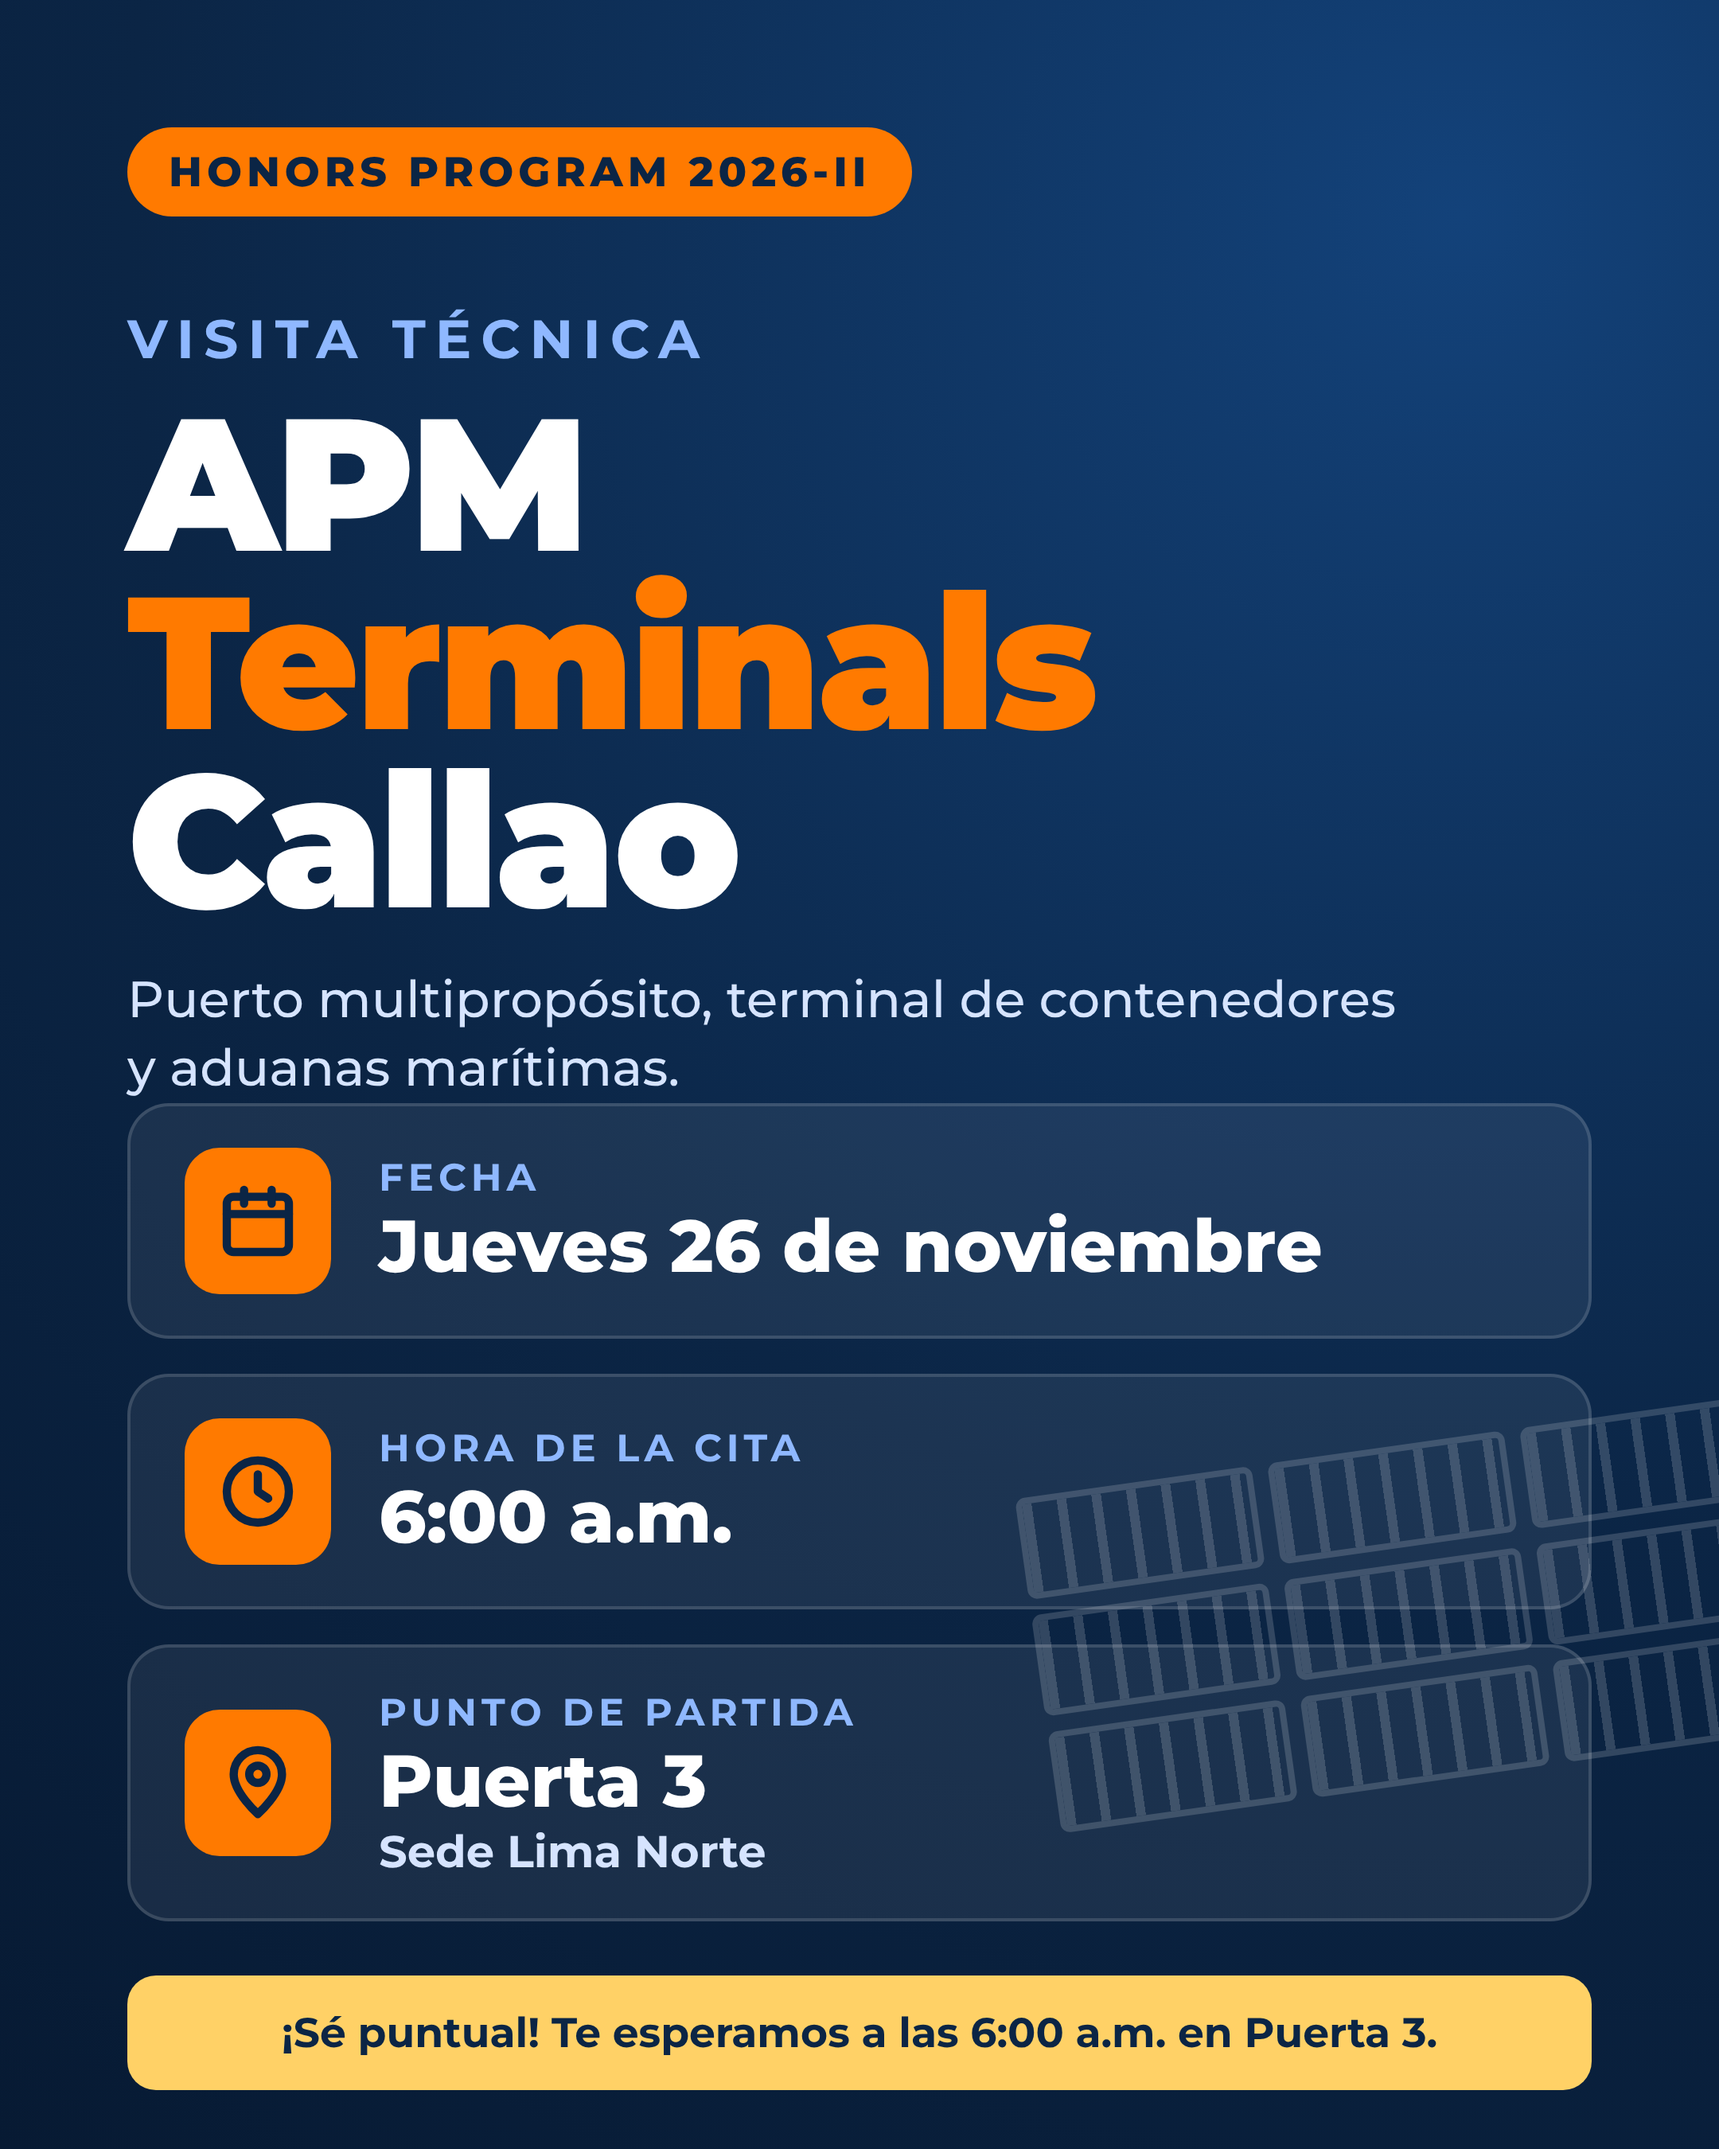
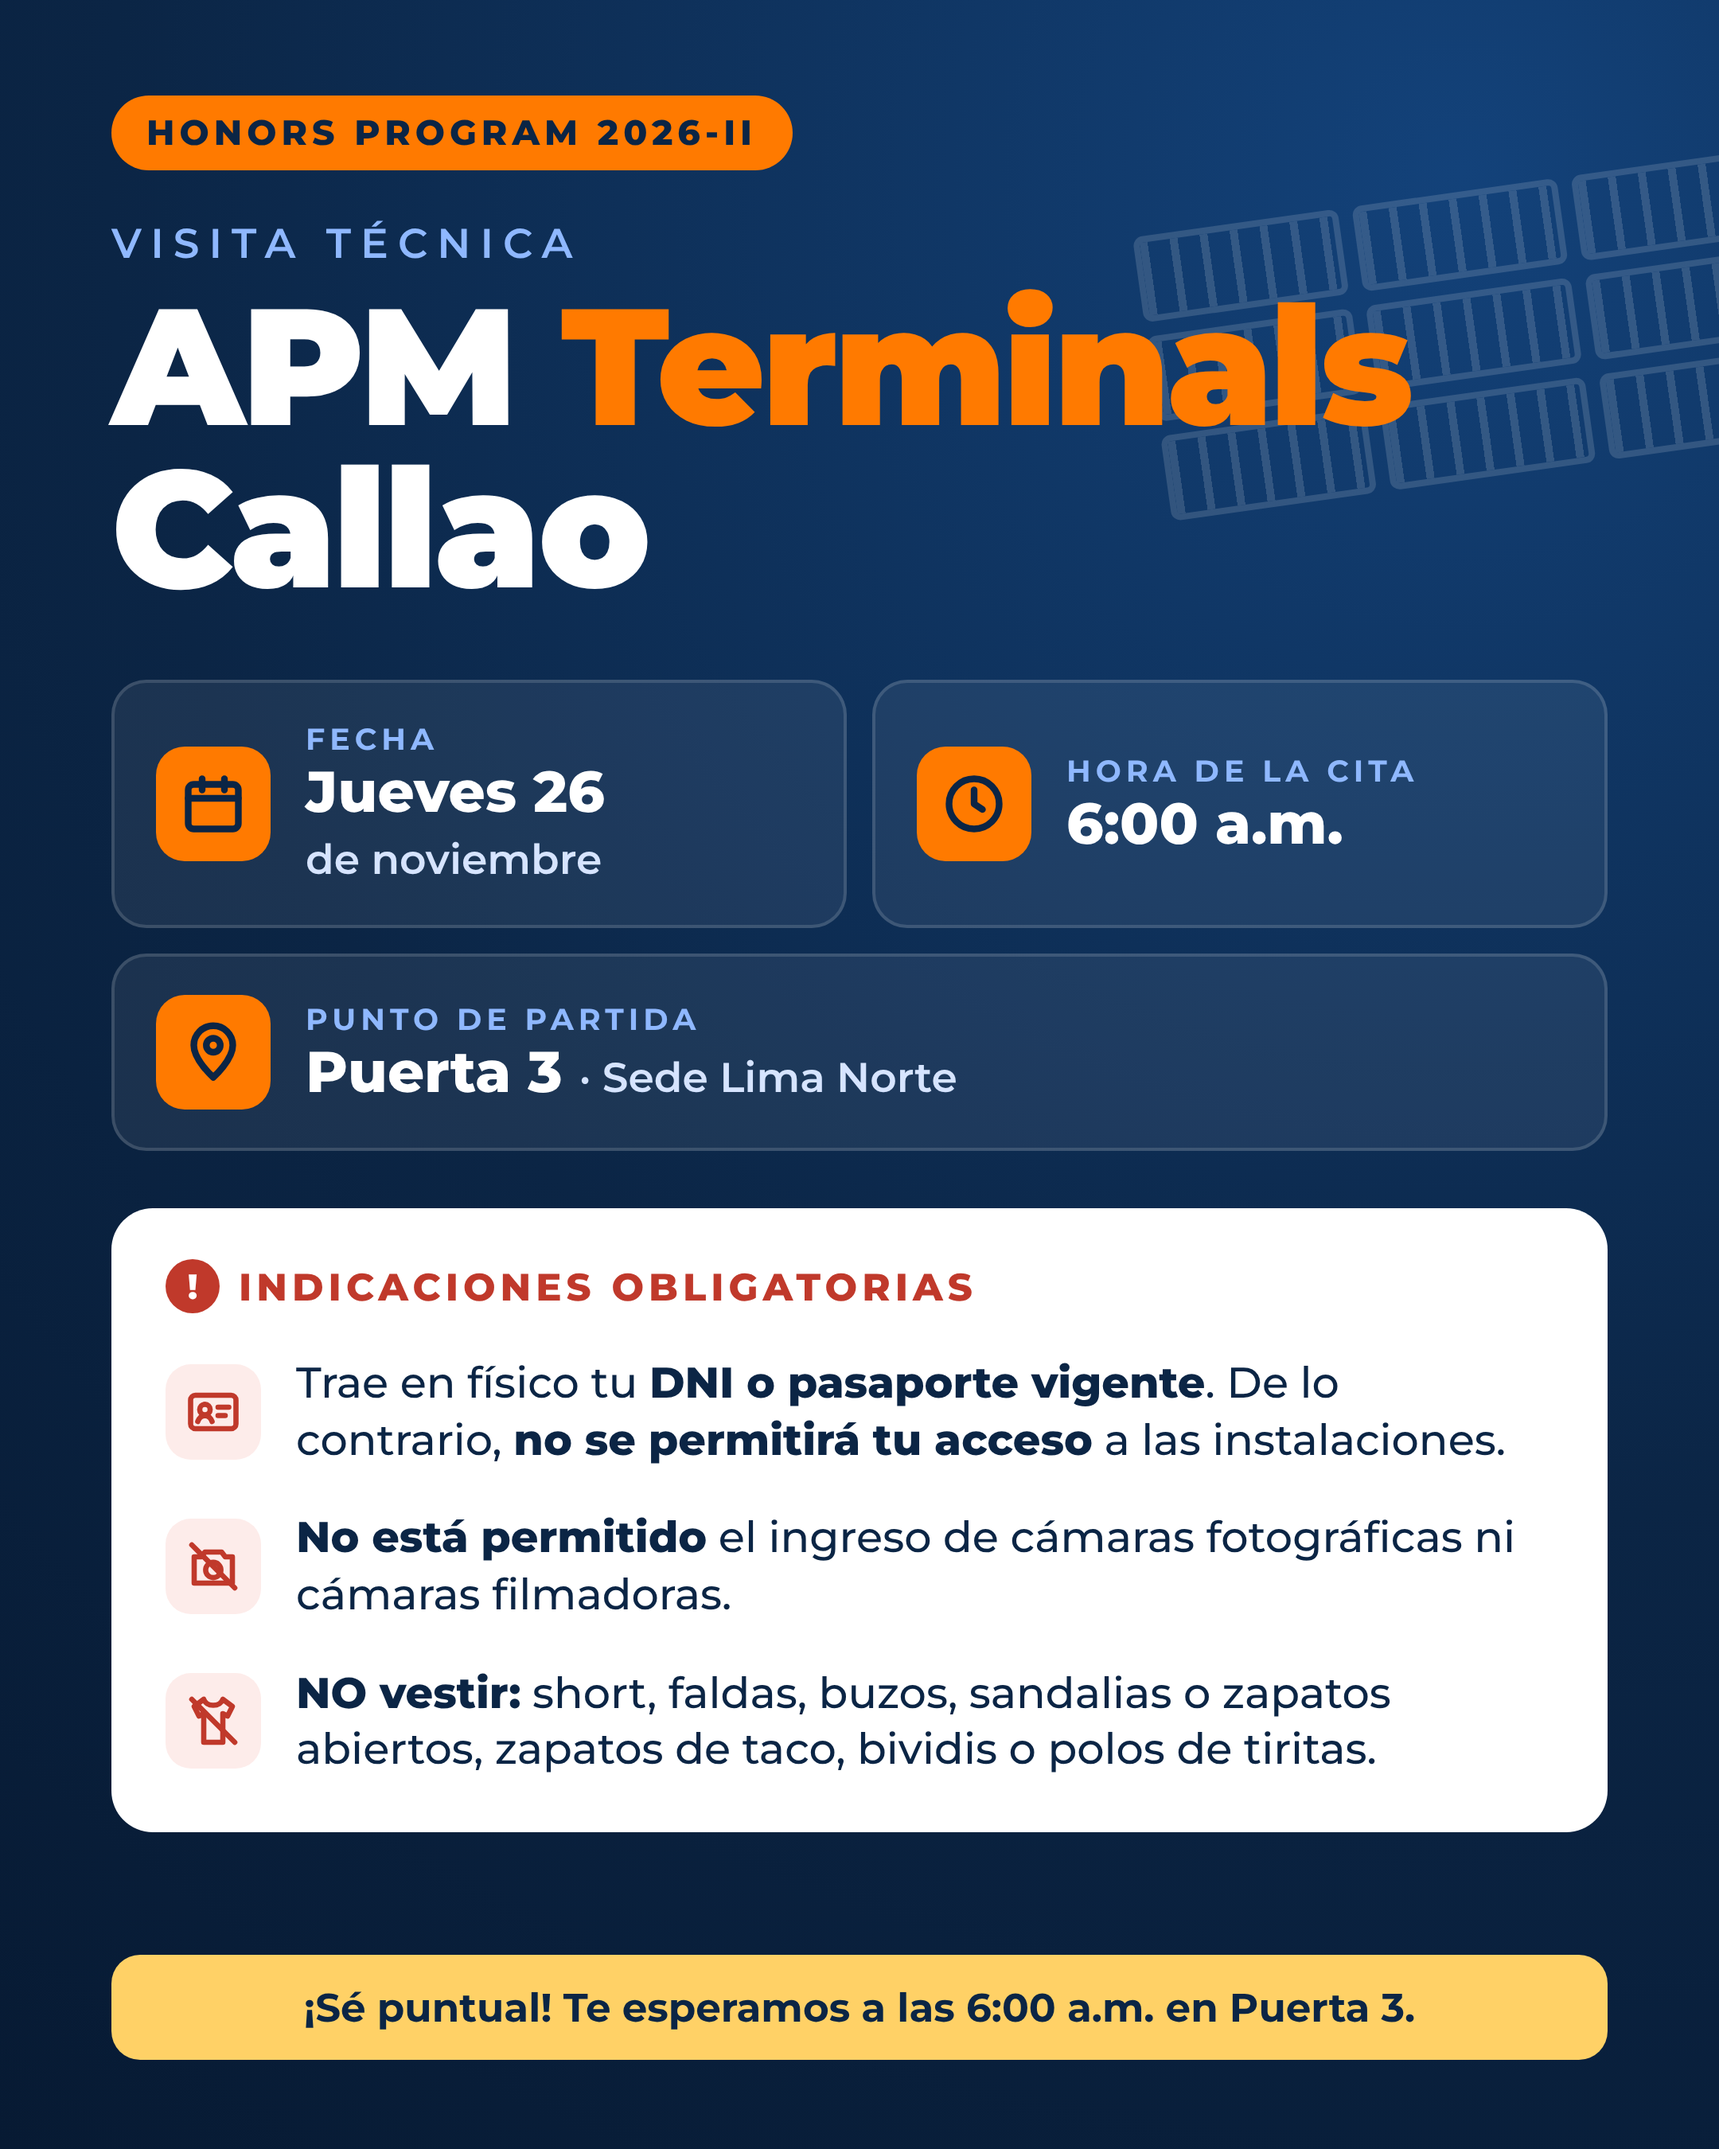
Add visit requirements to APM Terminals flyer
Claude-Session: https://claude.ai/code/session_01MbSN7717AodApa1qAjWUzD

diff --git a/flyer-apm/flyer.html b/flyer-apm/flyer.html
@@ -2,28 +2,37 @@
 <html lang="es">
 <head>
 <meta charset="utf-8">
-<link href="https://fonts.googleapis.com/css2?family=Montserrat:wght@500;700;800;900&display=swap" rel="stylesheet">
+<link href="https://fonts.googleapis.com/css2?family=Montserrat:wght@500;600;700;800;900&display=swap" rel="stylesheet">
 <style>
   * { margin: 0; padding: 0; box-sizing: border-box; }
   body { width: 1080px; height: 1350px; font-family: 'Montserrat', Arial, sans-serif; background: #0b2545; color: #fff; overflow: hidden; }
-  .card { position: relative; width: 100%; height: 100%; padding: 80px 80px 70px; display: flex; flex-direction: column;
-    background: radial-gradient(circle at 85% 10%, #13427a 0%, #0b2545 55%, #071a33 100%); }
-  /* contenedores decorativos */
-  .stack { position: absolute; right: -40px; bottom: 230px; display: grid; grid-template-columns: repeat(3, 150px); gap: 10px; opacity: .16; transform: rotate(-8deg); }
-  .stack div { height: 64px; border-radius: 6px; background: repeating-linear-gradient(90deg, #fff 0 6px, transparent 6px 22px); border: 4px solid #fff; }
-  .tag { display: inline-block; align-self: flex-start; background: #ff7a00; color: #0b2545; font-weight: 800; font-size: 26px; letter-spacing: 3px; padding: 12px 26px; border-radius: 40px; text-transform: uppercase; }
-  .kicker { margin-top: 56px; font-size: 34px; font-weight: 600; letter-spacing: 6px; color: #8fb8ff; text-transform: uppercase; }
-  h1 { margin-top: 14px; font-size: 118px; line-height: .95; font-weight: 900; letter-spacing: -2px; }
+  .card { position: relative; width: 100%; height: 100%; padding: 60px 70px 56px; display: flex; flex-direction: column;
+    background: radial-gradient(circle at 85% 8%, #13427a 0%, #0b2545 55%, #071a33 100%); }
+  .stack { position: absolute; right: -50px; top: 120px; display: grid; grid-template-columns: repeat(3, 130px); gap: 9px; opacity: .14; transform: rotate(-8deg); }
+  .stack div { height: 54px; border-radius: 6px; background: repeating-linear-gradient(90deg, #fff 0 5px, transparent 5px 19px); border: 4px solid #fff; }
+  .tag { display: inline-block; align-self: flex-start; background: #ff7a00; color: #0b2545; font-weight: 800; font-size: 22px; letter-spacing: 3px; padding: 10px 22px; border-radius: 40px; text-transform: uppercase; }
+  .kicker { margin-top: 30px; font-size: 26px; font-weight: 600; letter-spacing: 6px; color: #8fb8ff; text-transform: uppercase; }
+  h1 { margin-top: 10px; font-size: 104px; line-height: .98; font-weight: 900; letter-spacing: -2px; position: relative; }
   h1 span { color: #ff7a00; }
-  .sub { margin-top: 22px; font-size: 32px; font-weight: 500; color: #d6e4ff; max-width: 820px; line-height: 1.35; }
-  .info { margin-top: auto; display: grid; gap: 22px; position: relative; z-index: 1; }
-  .row { display: flex; align-items: center; gap: 30px; background: rgba(255,255,255,.07); border: 2px solid rgba(255,255,255,.14); border-radius: 26px; padding: 26px 34px; }
-  .ico { flex: none; width: 92px; height: 92px; border-radius: 22px; background: #ff7a00; display: grid; place-items: center; }
-  .ico svg { width: 52px; height: 52px; stroke: #0b2545; fill: none; stroke-width: 2.4; stroke-linecap: round; stroke-linejoin: round; }
-  .lbl { font-size: 24px; font-weight: 700; letter-spacing: 3px; color: #8fb8ff; text-transform: uppercase; }
-  .val { font-size: 46px; font-weight: 800; margin-top: 4px; line-height: 1.1; }
-  .val small { display: block; font-size: 28px; font-weight: 600; color: #d6e4ff; margin-top: 4px; }
-  .foot { margin-top: 34px; text-align: center; font-size: 26px; font-weight: 700; color: #0b2545; background: #ffd166; border-radius: 18px; padding: 20px; position: relative; z-index: 1; }
+  .grid { margin-top: 44px; display: grid; grid-template-columns: 1fr 1fr; gap: 16px; position: relative; }
+  .row { display: flex; align-items: center; gap: 22px; background: rgba(255,255,255,.07); border: 2px solid rgba(255,255,255,.14); border-radius: 22px; padding: 24px 26px; }
+  .row.full { grid-column: 1 / -1; }
+  .ico { flex: none; width: 72px; height: 72px; border-radius: 18px; background: #ff7a00; display: grid; place-items: center; }
+  .ico svg { width: 42px; height: 42px; stroke: #0b2545; fill: none; stroke-width: 2.4; stroke-linecap: round; stroke-linejoin: round; }
+  .lbl { font-size: 19px; font-weight: 700; letter-spacing: 3px; color: #8fb8ff; text-transform: uppercase; }
+  .val { font-size: 36px; font-weight: 800; margin-top: 2px; line-height: 1.1; }
+  .val small { font-size: 26px; font-weight: 600; color: #d6e4ff; }
+
+  .rules { margin-top: 36px; background: #fff; color: #0b2545; border-radius: 26px; padding: 32px 34px 34px; position: relative; }
+  .rules h2 { font-size: 24px; font-weight: 800; letter-spacing: 3px; text-transform: uppercase; color: #c0392b; display: flex; align-items: center; gap: 12px; }
+  .rules h2::before { content: "!"; display: grid; place-items: center; width: 34px; height: 34px; border-radius: 50%; background: #c0392b; color: #fff; font-size: 22px; letter-spacing: 0; }
+  .rule { display: flex; gap: 22px; align-items: center; margin-top: 26px; }
+  .rule .ri { flex: none; width: 60px; height: 60px; border-radius: 16px; background: #fdecea; display: grid; place-items: center; }
+  .rule .ri svg { width: 36px; height: 36px; stroke: #c0392b; fill: none; stroke-width: 2.2; stroke-linecap: round; stroke-linejoin: round; }
+  .rule p { font-size: 27px; font-weight: 500; line-height: 1.32; }
+  .rule b { font-weight: 800; }
+
+  .foot { margin-top: auto; font-size: 27px; text-align: center; font-size: 25px; font-weight: 700; color: #0b2545; background: #ffd166; border-radius: 18px; padding: 18px; position: relative; }
 </style>
 </head>
 <body>
@@ -32,21 +41,36 @@
 
   <div class="tag">Honors Program 2026-II</div>
   <div class="kicker">Visita técnica</div>
-  <h1>APM<br><span>Terminals</span><br>Callao</h1>
-  <p class="sub">Puerto multipropósito, terminal de contenedores y aduanas marítimas.</p>
+  <h1>APM <span>Terminals</span><br>Callao</h1>
 
-  <div class="info">
+  <div class="grid">
     <div class="row">
       <div class="ico"><svg viewBox="0 0 24 24"><rect x="3" y="5" width="18" height="16" rx="2"/><path d="M3 10h18M8 3v4M16 3v4"/></svg></div>
-      <div><div class="lbl">Fecha</div><div class="val">Jueves 26 de noviembre</div></div>
+      <div><div class="lbl">Fecha</div><div class="val">Jueves 26<br><small>de noviembre</small></div></div>
     </div>
     <div class="row">
       <div class="ico"><svg viewBox="0 0 24 24"><circle cx="12" cy="12" r="9"/><path d="M12 7v5l3 2"/></svg></div>
       <div><div class="lbl">Hora de la cita</div><div class="val">6:00 a.m.</div></div>
     </div>
-    <div class="row">
+    <div class="row full">
       <div class="ico"><svg viewBox="0 0 24 24"><path d="M12 21s-7-6.2-7-11.5A7 7 0 0 1 19 9.5C19 14.8 12 21 12 21z"/><circle cx="12" cy="9.5" r="2.5"/></svg></div>
-      <div><div class="lbl">Punto de partida</div><div class="val">Puerta 3<small>Sede Lima Norte</small></div></div>
+      <div><div class="lbl">Punto de partida</div><div class="val">Puerta 3 <small>· Sede Lima Norte</small></div></div>
+    </div>
+  </div>
+
+  <div class="rules">
+    <h2>Indicaciones obligatorias</h2>
+    <div class="rule">
+      <div class="ri"><svg viewBox="0 0 24 24"><rect x="2.5" y="5" width="19" height="14" rx="2"/><circle cx="8.5" cy="11" r="2.2"/><path d="M5.5 16c.6-1.6 1.7-2.4 3-2.4s2.4.8 3 2.4M14 10h4.5M14 13.5h3"/></svg></div>
+      <p>Trae en físico tu <b>DNI o pasaporte vigente</b>. De lo contrario, <b>no se permitirá tu acceso</b> a las instalaciones.</p>
+    </div>
+    <div class="rule">
+      <div class="ri"><svg viewBox="0 0 24 24"><path d="M4 8h3l1.5-2h7L17 8h3v11H4z"/><circle cx="12" cy="13.5" r="3.2"/><path d="M3 3l18 18"/></svg></div>
+      <p><b>No está permitido</b> el ingreso de cámaras fotográficas ni cámaras filmadoras.</p>
+    </div>
+    <div class="rule">
+      <div class="ri"><svg viewBox="0 0 24 24"><path d="M8 3l-4 3 2 4 2-1v12h8V9l2 1 2-4-4-3c-.5 1.5-2 2.5-4 2.5S8.5 4.5 8 3z"/><path d="M3 3l18 18"/></svg></div>
+      <p><b>NO vestir:</b> short, faldas, buzos, sandalias o zapatos abiertos, zapatos de taco, bividis o polos de tiritas.</p>
     </div>
   </div>
 
